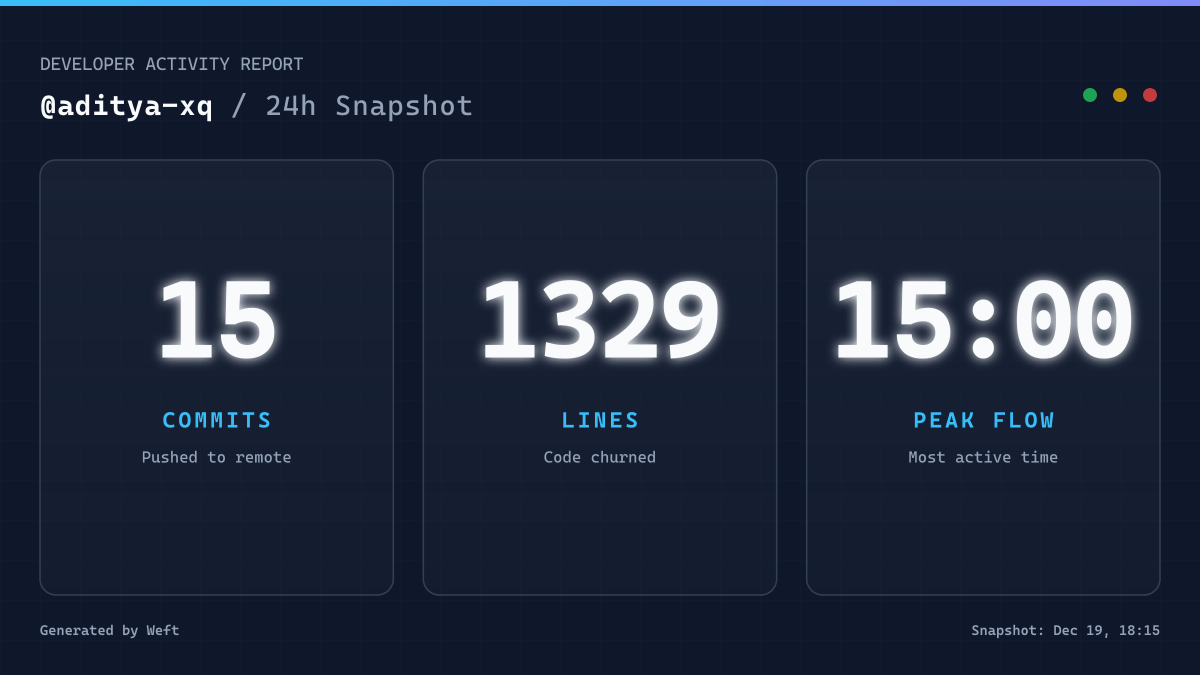
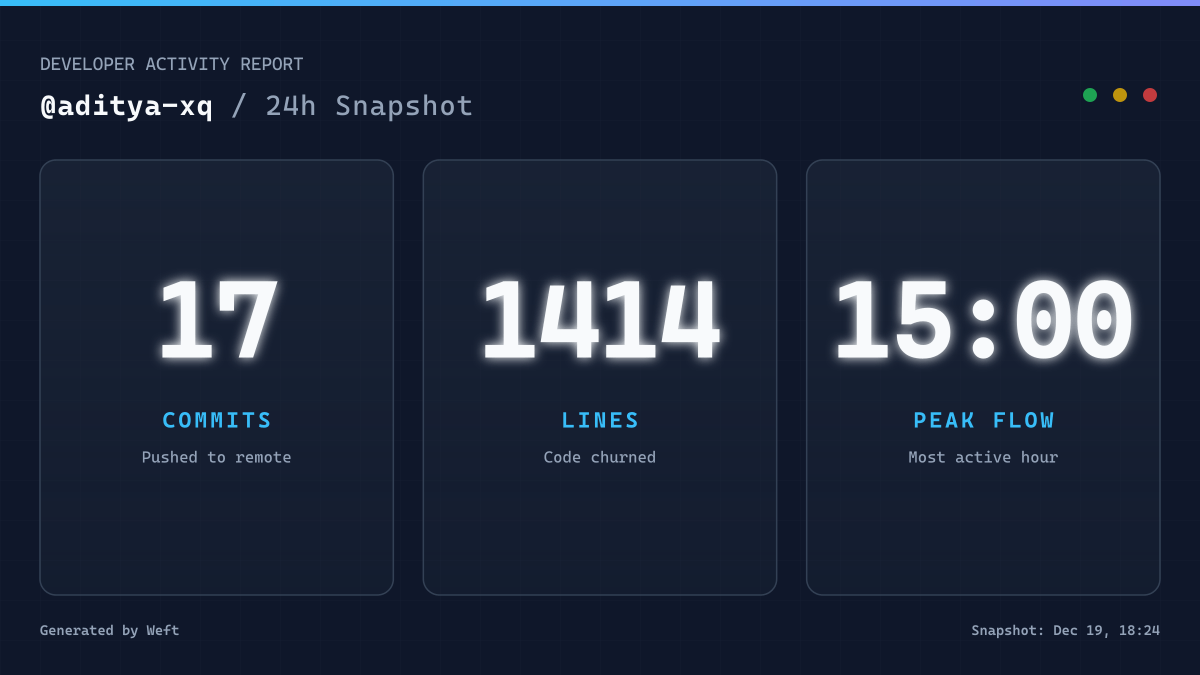
chore: misc change

Changed region(s): [[0.4317, 0.4044, 0.6167, 0.56], [0.1542, 0.4044, 0.2467, 0.56], [0.8325, 0.6533, 0.8942, 0.6844]]

diff --git a/src/render/svgGithubTemplate.ts b/src/render/svgGithubTemplate.ts
@@ -137,7 +137,7 @@ export function renderSVG(
             <g transform="translate(${metricCardW/2}, ${metricCardH/2})">
                 <text x="0" y="-20" text-anchor="middle" class="metric-val" filter="url(#glow)">${hourText}</text>
                 <text x="0" y="50" text-anchor="middle" class="metric-lbl">PEAK FLOW</text>
-                <text x="0" y="85" text-anchor="middle" class="metric-sub">Most active time</text>
+                <text x="0" y="85" text-anchor="middle" class="metric-sub">Most active hour</text>
             </g>
         </g>
 
